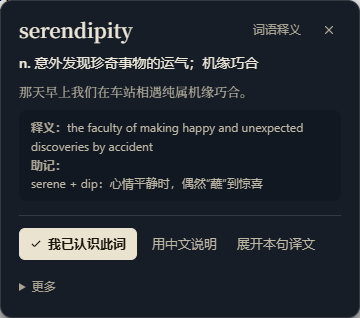
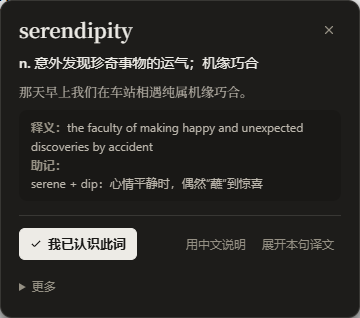
docs: README 截图换成暖纸墨配色，CHANGELOG 补上这次改版、配色与连接器修复

Changed region(s): [[0.3972, 0.7358, 0.9167, 0.7925], [0.7028, 0.0566, 0.8556, 0.1132]]

diff --git a/CHANGELOG.md b/CHANGELOG.md
@@ -4,7 +4,16 @@
 
 ## [Unreleased]
 
+### 改进
+- **设置页改版**：侧栏 11 个分区收成「阅读 / 网站 / 模型服务 / 词汇与记录 / 更多」五组，组内用标签切换，旧的分区链接照常可用；每项说明缩到一行，悬停或聚焦时展开全文；选项卡片改成分段按钮，「显示与解构」改为与其它页一致的行结构，「内容识别方式」从 6 张大卡片改为一列单选。
+- **按钮与状态**：按钮只分三级（主按钮实心、次按钮描边、纯文字），统一圆角与高度；页头运行状态收成一行中性色，只在出问题的那一项亮红点；去掉查词按键旁重复的键帽，空状态统一为小猫轮廓 + 一句提示。
+- **新配色「暖纸墨」**：亮色为纸白底、白卡、墨黑字，唯一强调色为赭石；暗色从蓝黑底换成暖炭黑；界面文字改用无衬线，衬线只留给词头与例句。正文、次级、弱化文字及强调、成功、错误色在各层底色上的对比度均不低于 4.5（WCAG AA）。
+- **弹窗与页内挂件**：弹窗卡片压平、站点名改用界面字体、告警条收成细线卡、关键说明放开两行、底栏贴底；查词卡词头改衬线大字、去掉标签与凸起按键，次要操作靠右收成小字；伴读猫摘要窗与开关跟上新配色。
+
 ### 修复
+- **订阅连接器连不上时说明原因**：「未找到或未授权」与「没能启动」两类提示末尾附上浏览器给出的原始原因。
+- **ego lite 的连接器注册**：Windows 上用默认参数安装时，检测到 ego lite 会顺带在它的产品路径下注册；新增 `--browser ego`。
+- **设置页快速切换分区**：连续切换时，晚到的视图过渡不再把页面切回上一个分区；后台窗口不出帧时也会按时切换。
 - **整页翻译不再重复命令**：命令表里整格都是命令（`/settings`、`claude update`、只剩「Alias:」一个词）的单元格不再送去翻译，判断时不算行内代码和 `/x`、`--flag`、`[arg]`、`a.b` 这类写法；译文与原文一样（版本号、专名被原样返回）时不再显示第二遍。
 - **说明句里的行内代码原样保留**：送模型前把 `code` / `kbd` / `samp` 换成占位，译文回来按网页原来的样式放回，命令和参数不会被翻译或丢掉样式；模型漏掉的代码补在句末。
 - `verify:sites` 的本地假模型请求此前被夹具路由拦截，双语检查数到的其实是失败提示；现在放行本机地址、只数真正的译文，并新增 CLI 命令表夹具。
